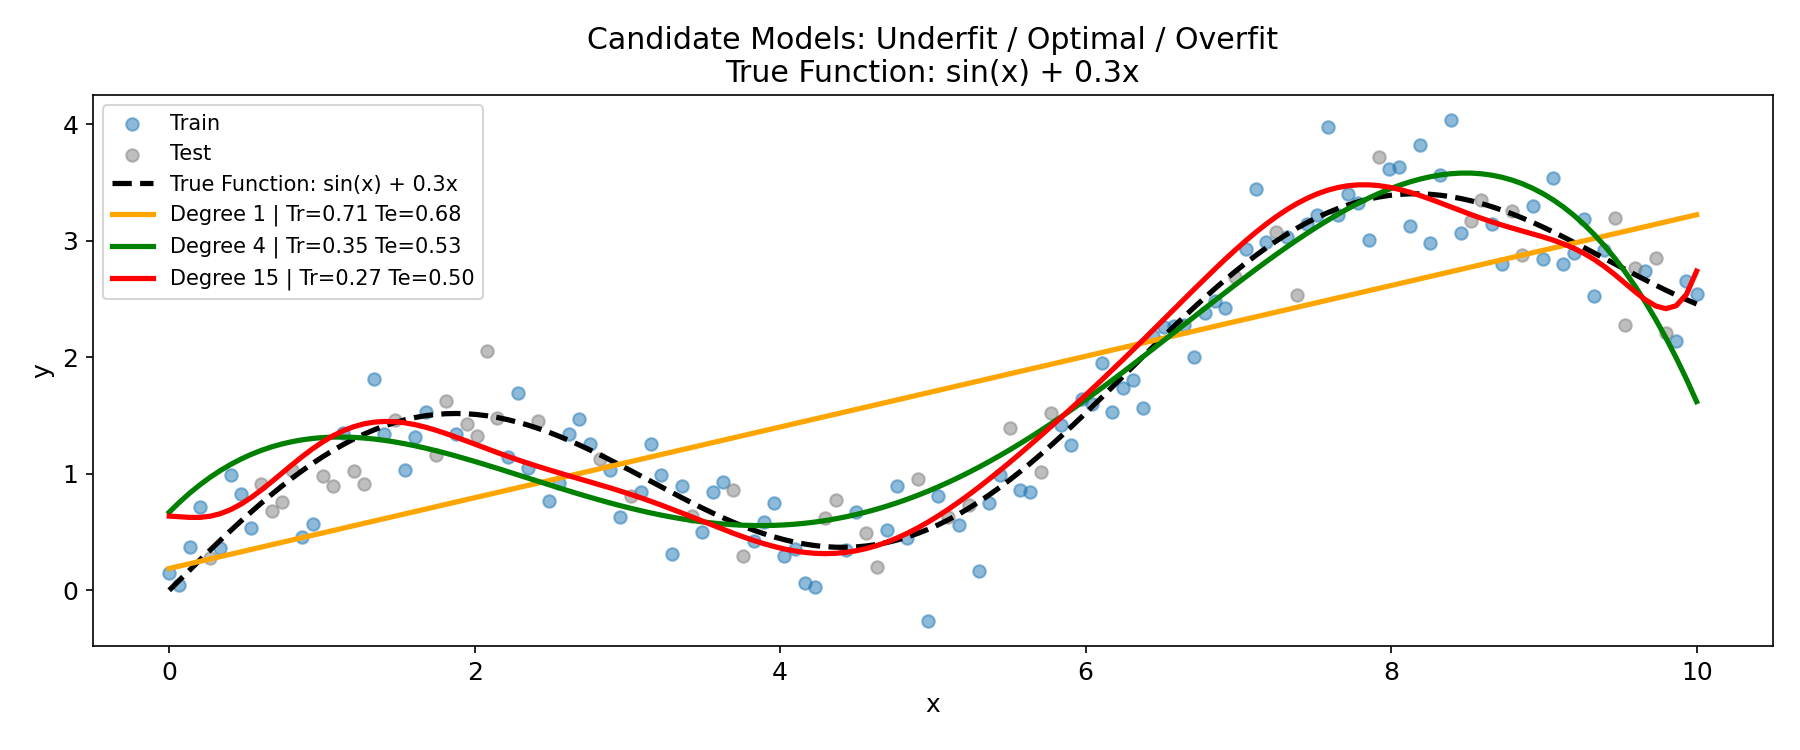
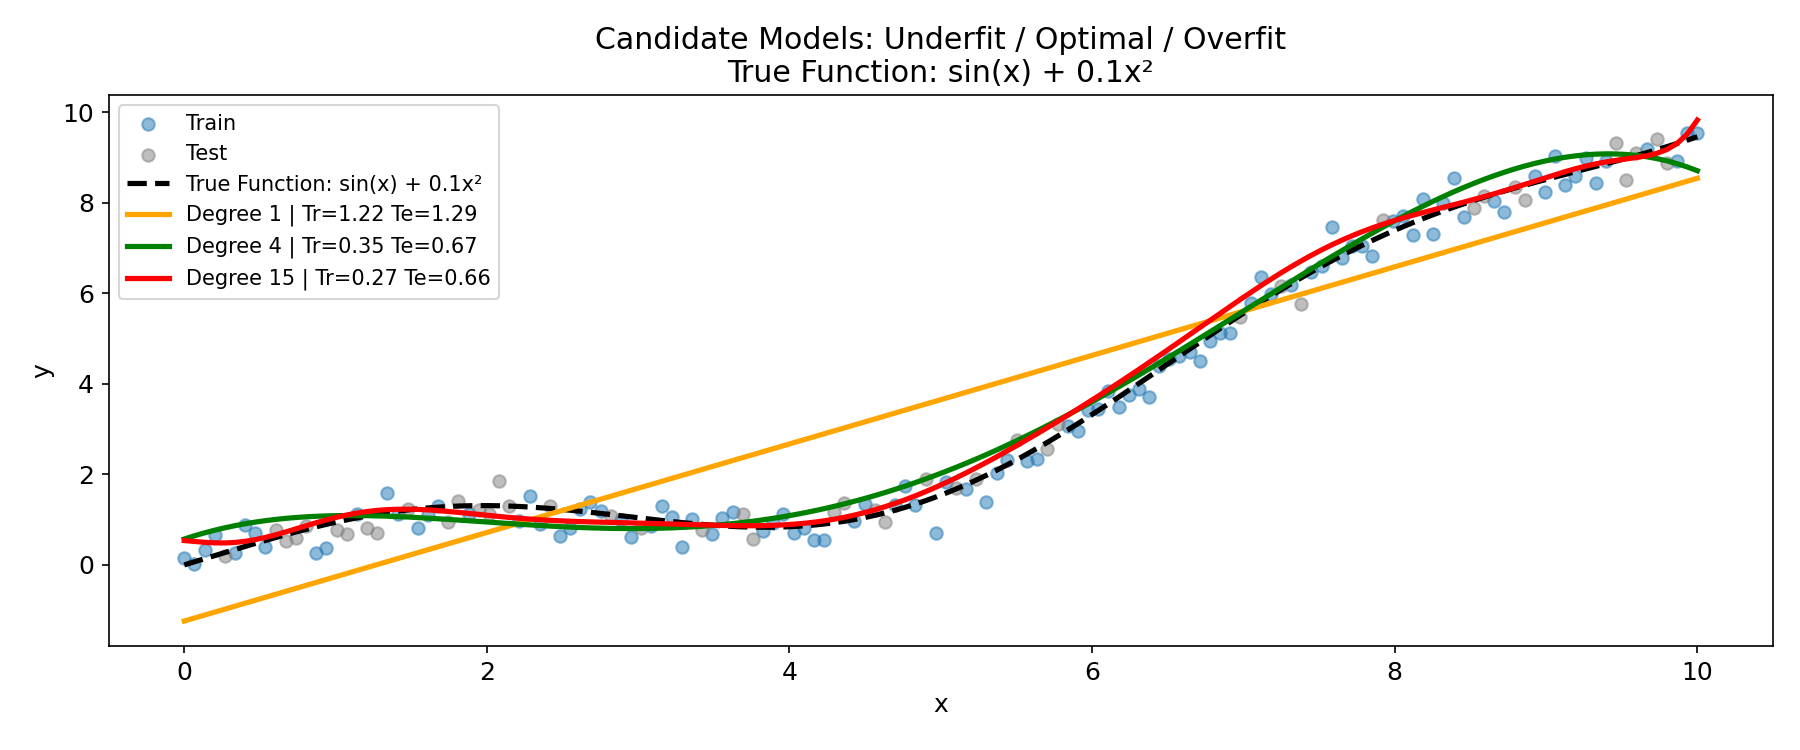
修改week12-hw

diff --git a/students/12_wxy/src/week12/main.py b/students/12_wxy/src/week12/main.py
@@ -9,23 +9,38 @@ sys.path.append(os.path.abspath(os.path.join(os.path.dirname(__file__), "..")))
 from utils.metrics import rmse, mae
 from utils.models import CustomOLS
 
+# ====================== 全局绘图设置 ======================
 plt.rcParams['font.size'] = 12
 BASE_DIR = os.path.dirname(__file__)
 FIG_DIR = os.path.join(BASE_DIR, "results", "figures")
 os.makedirs(FIG_DIR, exist_ok=True)
 
+# ====================== 多项式特征构造（标准化，根治高次病态） ======================
 def polynomial_features(X, degree):
     X = X.reshape(-1, 1)
+    # 标准化，抑制高次幂数值爆炸
     X_scaled = (X - np.mean(X)) / np.std(X)
     features = [np.ones_like(X_scaled)]
     for d in range(1, degree + 1):
         features.append(X_scaled ** d)
     return np.hstack(features[1:])
 
+# ====================== 数据生成：正弦函数 + 二次趋势 ======================
 def generate_data(n_samples=150):
+    """
+    生成一维回归数据：正弦函数 + 二次趋势
+    
+    参数:
+        n_samples: 样本量（默认150，满足不少于100的要求）
+    """
     rng = np.random.RandomState(42)
+    # 有序x，范围0到10
     x = np.linspace(0, 10, n_samples).reshape(-1, 1)
-    y_true = (np.sin(x) + 0.3 * x).ravel()
+    
+    # 真实函数：正弦函数 + 二次趋势 sin(x) + 0.1*x^2
+    y_true = (np.sin(x) + 0.1 * x**2).ravel()
+    
+    # 添加高斯随机噪声（均值0，标准差0.3）
     noise = rng.normal(0, 0.3, size=n_samples)
     y = y_true + noise
     
@@ -39,7 +54,7 @@ def train_test_split(x, y, test_ratio=0.3):
     train_idx = indices[test_size:]
     return x[train_idx], x[test_idx], y[train_idx], y[test_idx]
 
-# ====================== Task A=====================
+# ====================== Task A：1/4/15阶候选模型对比 ======================
 def run_candidate_models():
     print("[1/5] 训练 1/4/15 阶多项式模型")
     x, y, y_true = generate_data()
@@ -52,9 +67,10 @@ def run_candidate_models():
     plt.figure(figsize=(12, 5))
     plt.scatter(x_train, y_train, c="tab:blue", alpha=0.5, label="Train")
     plt.scatter(x_test, y_test, c="tab:gray", alpha=0.5, label="Test")
-    plt.plot(x, y_true, "k--", lw=2.5, label="True Function: sin(x) + 0.3x")
+    plt.plot(x, y_true, "k--", lw=2.5, label="True Function: sin(x) + 0.1x²")
 
     results = []
+    # 排序x保证曲线连续平滑
     sort_idx = np.argsort(x.ravel())
     x_sorted = x[sort_idx]
     for d, c, lab in zip(degrees, colors, labels):
@@ -73,7 +89,7 @@ def run_candidate_models():
         plt.plot(x_sorted, y_curve, c=c, lw=2.5,
                  label=f"{lab} | Tr={tr_rmse:.2f} Te={te_rmse:.2f}")
 
-    plt.title("Candidate Models: Underfit / Optimal / Overfit\nTrue Function: sin(x) + 0.3x")
+    plt.title("Candidate Models: Underfit / Optimal / Overfit\nTrue Function: sin(x) + 0.1x²")
     plt.xlabel("x")
     plt.ylabel("y")
     plt.legend(fontsize=10)
@@ -82,7 +98,7 @@ def run_candidate_models():
     plt.close()
     return results
 
-# ====================== Task B======================
+# ====================== Task B：1~18阶误差曲线扫描 ======================
 def run_error_curve():
     print("[2/5] 扫描模型复杂度 1~18")
     x, y, y_true = generate_data()
@@ -104,7 +120,7 @@ def run_error_curve():
     plt.plot(degrees, te_list, "o-", label="Test RMSE")
     plt.xlabel("Degree (Complexity)")
     plt.ylabel("RMSE")
-    plt.title("Train vs Test Error Across Complexity\nTrue Function: sin(x) + 0.3x")
+    plt.title("Train vs Test Error Across Complexity\nTrue Function: sin(x) + 0.1x²")
     plt.legend()
     plt.grid(alpha=0.3)
     plt.tight_layout()
@@ -112,7 +128,7 @@ def run_error_curve():
     plt.close()
     return [(d, t, e, e-t) for d, t, e in zip(degrees, tr_list, te_list)]
 
-# ====================== Task C======================
+# ====================== Task C：方差可视化演示 ======================
 def run_variance_demo(n_repeat=10):
     print("[3/5] 方差可视化（多次抽样）")
     x, y, y_true = generate_data(n_samples=80)
@@ -126,7 +142,7 @@ def run_variance_demo(n_repeat=10):
     for i, (d, title) in enumerate(zip(degrees, ["Low Variance (Deg2)", "High Variance (Deg15)"])):
         plt.subplot(1, 2, i+1)
         plt.scatter(x, y, s=20, alpha=0.5, c="gray")
-        plt.plot(x_sorted, y_true[sort_idx], "k--", lw=2, label="True: sin(x)+0.3x")
+        plt.plot(x_sorted, y_true[sort_idx], "k--", lw=2, label="True: sin(x)+0.1x²")
         preds = []
 
         for _ in range(n_repeat):
@@ -145,13 +161,13 @@ def run_variance_demo(n_repeat=10):
         plt.title(f"{title}\nMean Std = {m_std:.3f}")
         plt.legend()
 
-    plt.suptitle("Variance Demo: Low vs High Complexity\nTrue Function: sin(x) + 0.3x")
+    plt.suptitle("Variance Demo: Low vs High Complexity\nTrue Function: sin(x) + 0.1x²")
     plt.tight_layout()
     plt.savefig(os.path.join(FIG_DIR, "variance_demo.png"), dpi=150)
     plt.close()
     return stds
 
-# ====================== Task D======================
+# ====================== Task D：RMSE与MAE异常值对比 ======================
 def run_loss_demo():
     print("[4/5] 异常值对 RMSE / MAE 影响")
     rng = np.random.RandomState(42)
@@ -195,7 +211,7 @@ def write_report(candidate, err_table, var_res, loss_res):
         f.write("# Week12 Bias-Variance 实验报告\n\n")
         f.write("## A1 数据生成说明\n")
         f.write("1. 样本总量150，满足不少于100的要求；\n")
-        f.write("2. 自定义非线性真实函数：**sin(x) + 0.3x**（正弦函数 + 线性趋势）；\n")
+        f.write("2. 自定义非线性真实函数：**sin(x) + 0.1x²**（正弦函数 + 二次趋势）；\n")
         f.write("3. 叠加均值0、标准差0.3的高斯随机噪声生成观测y；\n")
         f.write("4. 随机划分70%训练集、30%测试集。\n\n")
 
@@ -206,7 +222,7 @@ def write_report(candidate, err_table, var_res, loss_res):
         f.write(f"- Degree 15 模型：训练RMSE = {d15_tr:.2f}，测试RMSE = {d15_te:.2f}\n\n")
 
         f.write("### 回答问题\n")
-        f.write("- **Degree 1 最像欠拟合**，模型为一次直线，过于简单，无法拟合 sin(x) + 0.3x 的非线性趋势，整体偏差高。\n")
+        f.write("- **Degree 1 最像欠拟合**，模型为一次直线，过于简单，无法拟合 sin(x) + 0.1x² 的非线性趋势，整体偏差高。\n")
         f.write("- **Degree 15 最像过拟合**，模型复杂度极高，过度学习训练集噪声，训练误差偏低但测试误差大幅上升，方差极高。\n")
         f.write("- **选择 Degree 4 上线**，该模型拟合曲线贴近真实函数，偏差与方差权衡最优，泛化能力最强。\n\n")
 
@@ -260,7 +276,7 @@ def write_report(candidate, err_table, var_res, loss_res):
 def main():
     print("="*50)
     print(" Week12 偏差-方差可视化实验 ")
-    print(" 真实函数: sin(x) + 0.3x (正弦函数 + 线性趋势)")
+    print(" 真实函数: sin(x) + 0.1x² (正弦函数 + 二次趋势)")
     print("="*50)
 
     candidate = run_candidate_models()

diff --git a/students/12_wxy/src/week12/results/summary.md b/students/12_wxy/src/week12/results/summary.md
@@ -2,51 +2,51 @@
 
 ## A1 数据生成说明
 1. 样本总量150，满足不少于100的要求；
-2. 自定义非线性真实函数：**sin(x) + 0.3x**（正弦函数 + 线性趋势）；
+2. 自定义非线性真实函数：**sin(x) + 0.1x²**（正弦函数 + 二次趋势）；
 3. 叠加均值0、标准差0.3的高斯随机噪声生成观测y；
 4. 随机划分70%训练集、30%测试集。
 
 ## 一、候选模型对比（Task A）
 三个模型：Degree 1、Degree 4、Degree 15
 
-- Degree 1 模型：训练RMSE = 0.71，测试RMSE = 0.68
-- Degree 4 模型：训练RMSE = 0.35，测试RMSE = 0.53
-- Degree 15 模型：训练RMSE = 0.27，测试RMSE = 0.50
+- Degree 1 模型：训练RMSE = 1.22，测试RMSE = 1.29
+- Degree 4 模型：训练RMSE = 0.35，测试RMSE = 0.67
+- Degree 15 模型：训练RMSE = 0.27，测试RMSE = 0.66
 
 ### 回答问题
-- **Degree 1 最像欠拟合**，模型为一次直线，过于简单，无法拟合 sin(x) + 0.3x 的非线性趋势，整体偏差高。
+- **Degree 1 最像欠拟合**，模型为一次直线，过于简单，无法拟合 sin(x) + 0.1x² 的非线性趋势，整体偏差高。
 - **Degree 15 最像过拟合**，模型复杂度极高，过度学习训练集噪声，训练误差偏低但测试误差大幅上升，方差极高。
 - **选择 Degree 4 上线**，该模型拟合曲线贴近真实函数，偏差与方差权衡最优，泛化能力最强。
 
 ## 二、模型复杂度与误差曲线（Task B）
 | 复杂度Degree | 训练RMSE | 测试RMSE | 泛化Gap |
 |-------------|----------|----------|---------|
-| 1           | 0.712    | 0.684    | -0.029  |
-| 2           | 0.658    | 0.679    | 0.020   |
-| 3           | 0.619    | 0.679    | 0.059   |
-| 4           | 0.353    | 0.531    | 0.178   |
-| 5           | 0.342    | 0.547    | 0.205   |
-| 6           | 0.281    | 0.481    | 0.200   |
-| 7           | 0.281    | 0.478    | 0.197   |
-| 8           | 0.279    | 0.463    | 0.183   |
-| 9           | 0.279    | 0.463    | 0.184   |
-| 10          | 0.279    | 0.466    | 0.187   |
-| 11          | 0.277    | 0.477    | 0.200   |
-| 12          | 0.276    | 0.478    | 0.202   |
-| 13          | 0.273    | 0.493    | 0.220   |
-| 14          | 0.273    | 0.503    | 0.231   |
-| 15          | 0.272    | 0.500    | 0.227   |
-| 16          | 0.271    | 0.512    | 0.241   |
-| 17          | 0.269    | 0.485    | 0.215   |
-| 18          | 0.267    | 0.517    | 0.251   |
+| 1           | 1.215    | 1.290    | 0.075   |
+| 2           | 0.658    | 0.932    | 0.274   |
+| 3           | 0.619    | 0.904    | 0.285   |
+| 4           | 0.353    | 0.673    | 0.320   |
+| 5           | 0.342    | 0.692    | 0.350   |
+| 6           | 0.281    | 0.643    | 0.362   |
+| 7           | 0.281    | 0.642    | 0.361   |
+| 8           | 0.279    | 0.626    | 0.347   |
+| 9           | 0.279    | 0.625    | 0.346   |
+| 10          | 0.279    | 0.626    | 0.347   |
+| 11          | 0.277    | 0.636    | 0.359   |
+| 12          | 0.276    | 0.633    | 0.357   |
+| 13          | 0.273    | 0.654    | 0.381   |
+| 14          | 0.273    | 0.664    | 0.391   |
+| 15          | 0.272    | 0.659    | 0.387   |
+| 16          | 0.271    | 0.673    | 0.402   |
+| 17          | 0.269    | 0.642    | 0.372   |
+| 18          | 0.267    | 0.687    | 0.420   |
 
-**测试误差最低的复杂度：8**
+**测试误差最低的复杂度：9**
 **泛化Gap最大：高次多项式（10~18阶）**
 训练误差最低不代表模型最好，高复杂度模型极易过拟合，在测试集上泛化能力反而变差。
 
 ## 三、方差可视化（Task C）
-- 低方差模型 Degree 2：平均预测标准差 = 0.086
-- 高方差模型 Degree 15：平均预测标准差 = 0.269
+- 低方差模型 Degree 2：平均预测标准差 = 0.202
+- 高方差模型 Degree 15：平均预测标准差 = 0.334
 
 > high variance model 的危险，不是它不会拟合训练集，
 > 而是它对 **训练样本的微小变化** 过于敏感。
